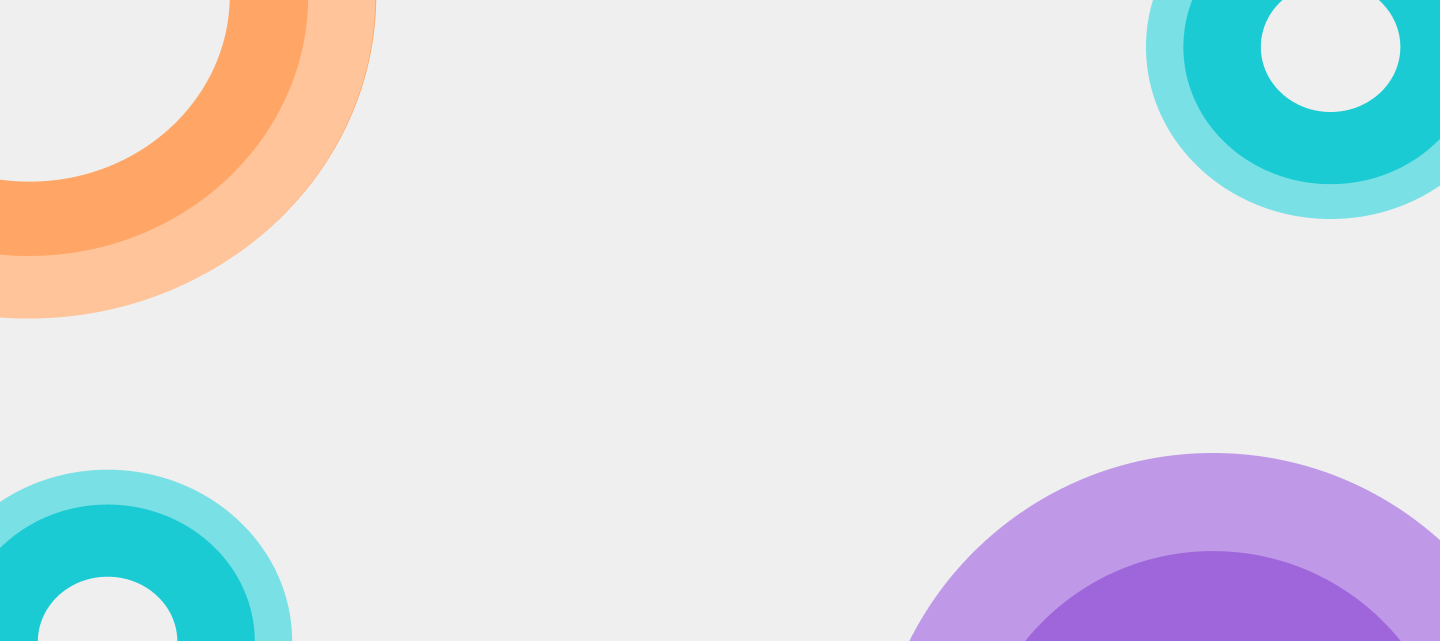
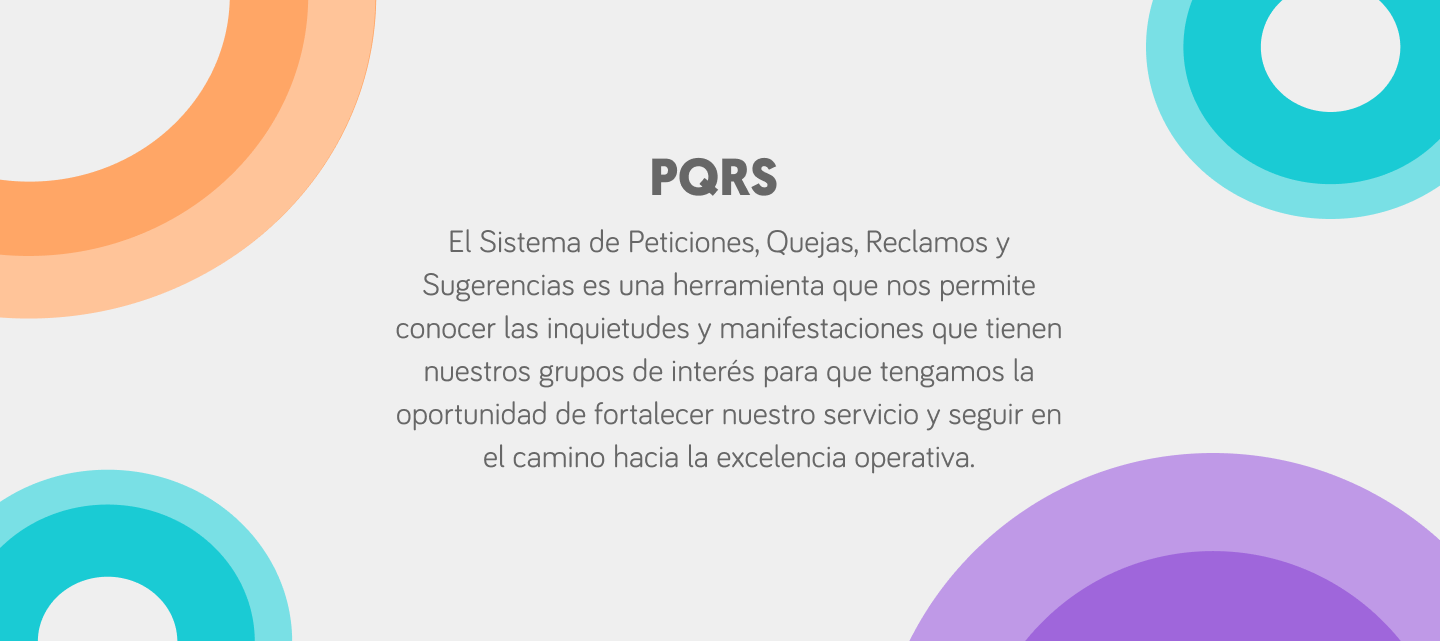
basic layout

diff --git a/Boton-PQRS/pqrs.html b/Boton-PQRS/pqrs.html
@@ -20,12 +20,55 @@
 <body>
   <header id="header"></header>
 
-    <div class="input-container">
-      <label for="monto">Monto deseado:</label>
-      <input type="text" id="monto" name="monto" />
+    <div class="hero2">
+      <img src="/img/fondo-PQRS.png" alt="Imagen del hero" class="hero-image">
     </div>
+
+<div id="datos-personales-gotahorro" class="datos-personales" style="display: block;">
+    <div class="input-container">
+      <label for="tipo">Tipo de Solicitud</label>
+      <input type="text" id="monto" name="tipo" />
+    </div>
+    <div class="input-container">
+      <label for="nombre">Nombre</label>
+      <input type="text" id="monto" name="nombre" />
+    </div>
+    <div class="input-container">
+      <label for="doc">Tipo de documento</label>
+      <input type="text" id="nombre" name="doc" />
+    </div>
+    <div class="input-container">
+      <label for="correo">Correo electronico</label>
+      <input type="text" id="nombre" name="correo" />
+    </div>
+    <div class="input-container">
+      <label for="tel">Telefono</label>
+      <input type="text" id="nombre" name="tel" />
+    </div>
+    <div class="input-container">
+      <label for="pais">Pais</label>
+      <input type="text" id="nombre" name="pais" />
+    </div>
+    <div class="input-container">
+      <label for="dep">Departamento</label>
+      <input type="text" id="nombre" name="dep" />
+    </div>
+    <div class="input-container">
+      <label for="mun">Municipio</label>
+      <input type="text" id="nombre" name="mun" />
+    </div>
+    <div class="input-container">
+      <label for="asunto">Asunto</label>
+      <input type="text" id="nombre" name="asunto" />
+    </div>
+    <div class="input-container">
+      <label for="desc">Descripcion</label>
+      <input type="text" id="nombre" name="desc" />
+</div>
+
+  </div>
     <div class="siguiente-button-container">
-      <button class="siguiente-button" id="siguiente2">Siguiente</button>
+      <button class="siguiente-button" id="siguiente2">Enviar</button>
     </div>
 
   <custom-footer></custom-footer>

diff --git a/Boton-PQRS/pqrs.css b/Boton-PQRS/pqrs.css
@@ -1,0 +1,11 @@
+.siguiente-button {
+	margin-bottom: 20px;
+	background-color: #1acbd4;
+}
+
+.datos-personales {
+	margin-top: 150px;
+}
+.input-container label{
+	color: gray;
+}
